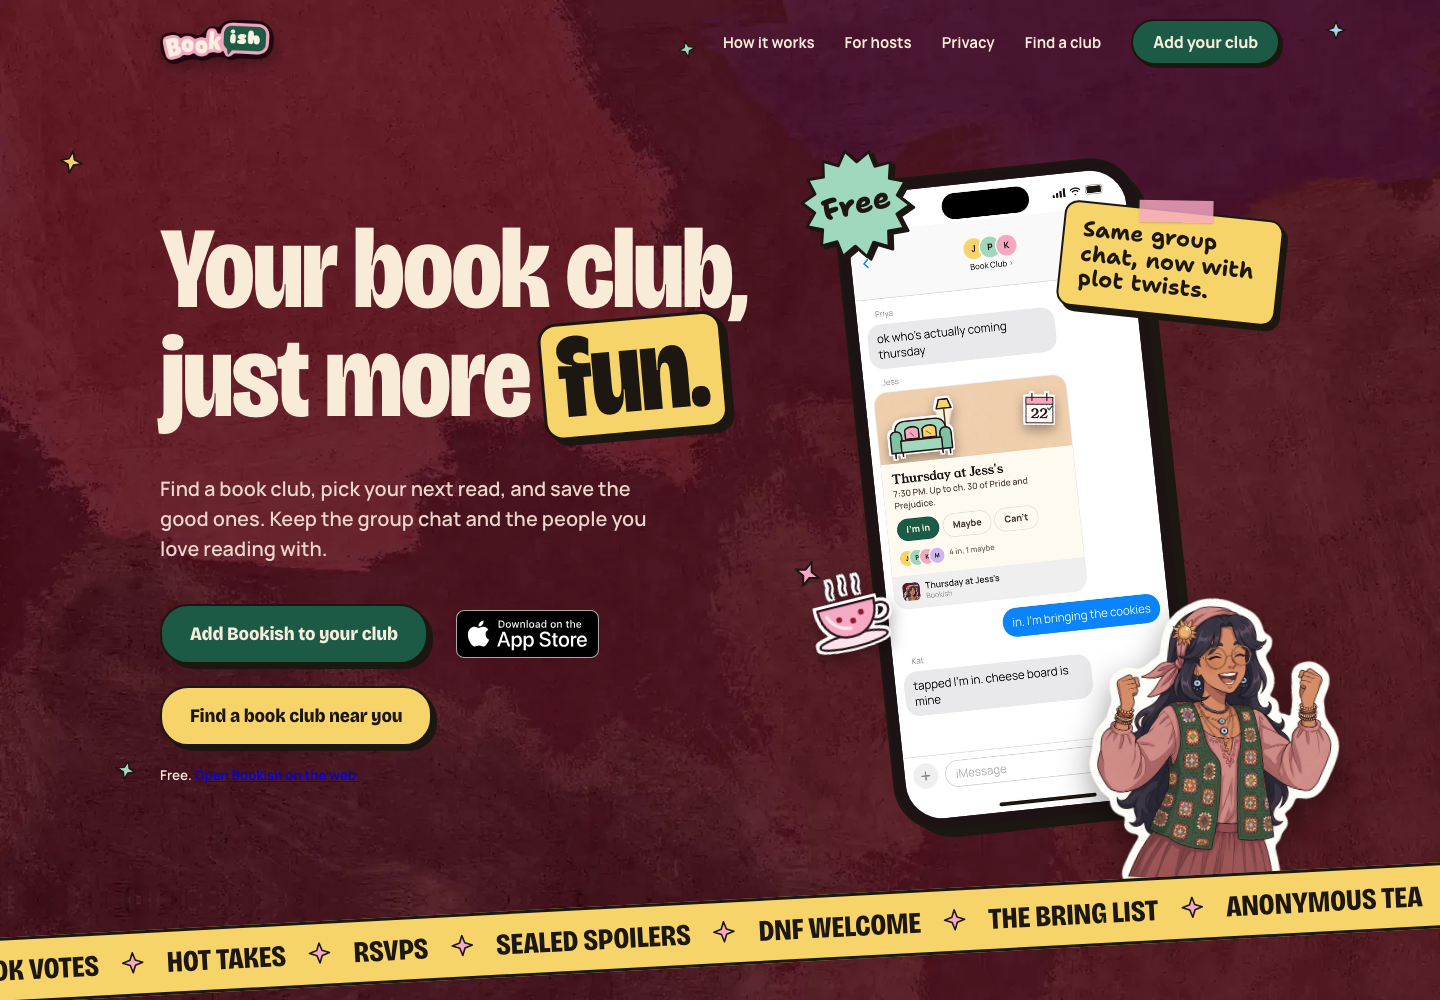
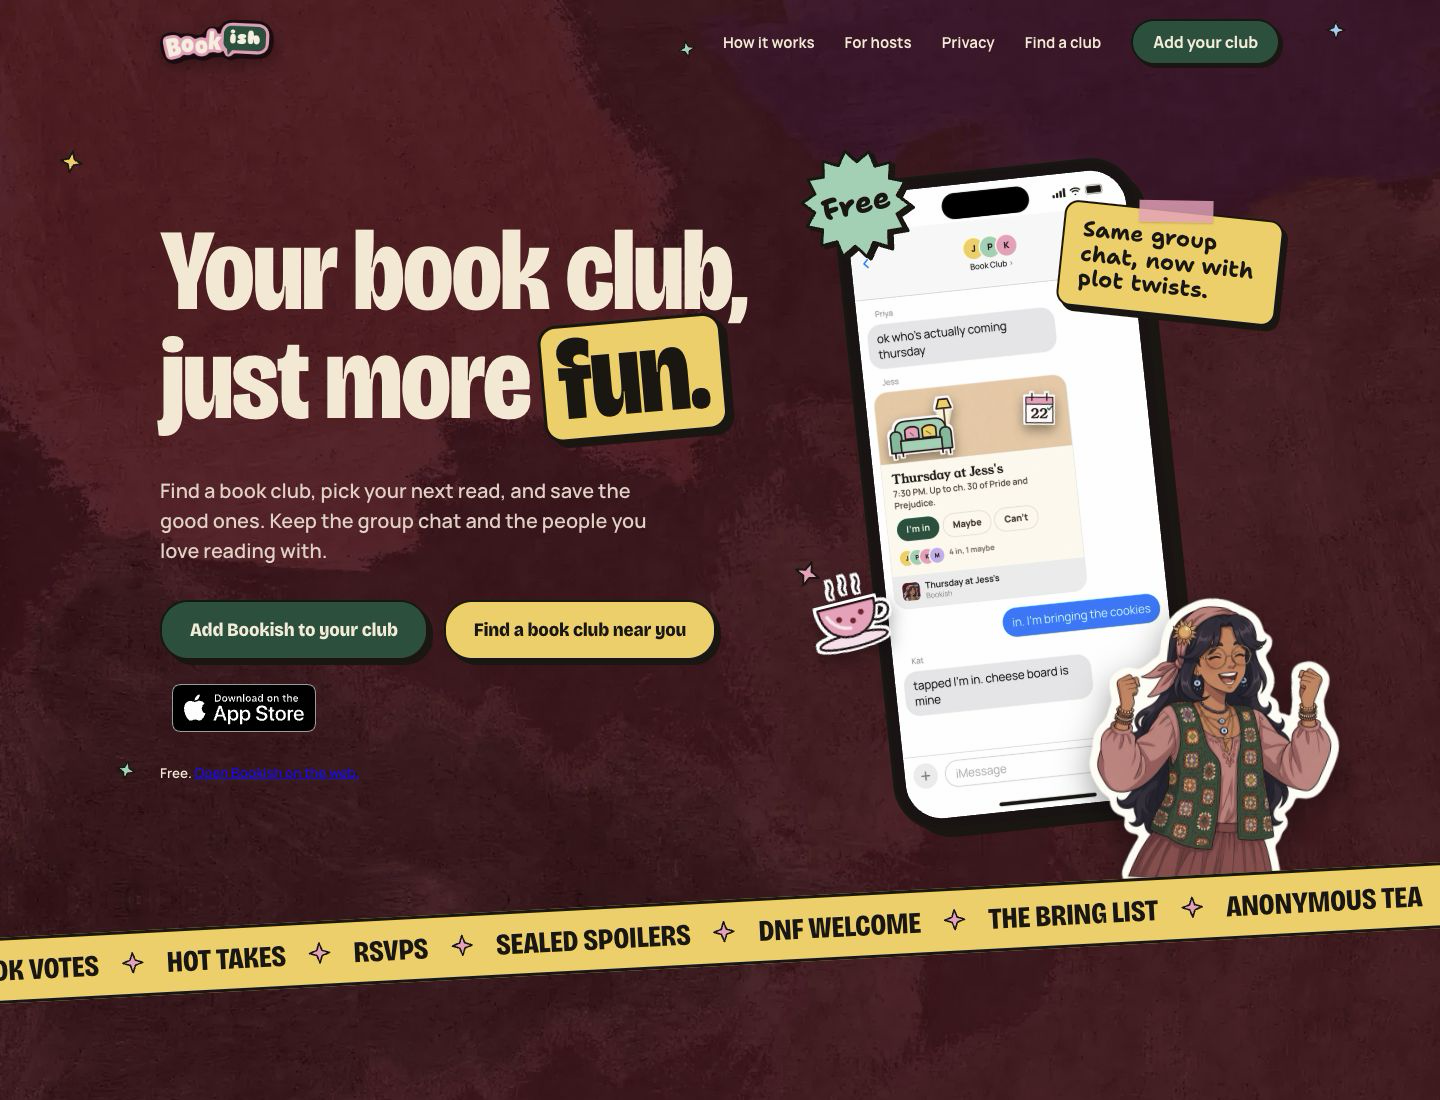
Fix US App Store links and keep hero buttons together
Place the download badge below the hero button pair, use Apple's canonical US storefront URL, and refresh the 390 px and 1440 px render evidence.

Claude-Session: https://claude.ai/code/session_01SUadgkTnheUFXD2cjQiSgD

diff --git a/src/landing.html b/src/landing.html
@@ -7,7 +7,10 @@
    <h1 class="h0">Your book club, just more <span class="pop">fun.</span></h1>
    <div class="lead" style="margin-top:34px;max-width:520px">Find a book club, pick your next read, and save the good ones. Keep the group chat and the people you love reading with.</div>
    <div style="position:relative">
-    <div class="row stack hero-actions" style="gap:16px;margin-top:34px"><a class="btn" href="__BASE__/start/">Add Bookish to your club</a><a class="app-store-badge" href="https://apps.apple.com/app/bookish-book-club-night/id6823470101"><img src="__BASE__/img/download-on-the-app-store.svg" alt="Download on the App Store" width="144" height="48"></a><a class="btn g" href="__BASE__/book-clubs/">Find a book club near you</a></div>
+    <div class="hero-actions" style="margin-top:34px">
+     <div class="row stack" style="gap:16px"><a class="btn" href="__BASE__/start/">Add Bookish to your club</a><a class="btn g" href="__BASE__/book-clubs/">Find a book club near you</a></div>
+     <a class="app-store-badge" href="https://apps.apple.com/us/app/bookish-book-club-night/id6823470101"><img src="__BASE__/img/download-on-the-app-store.svg" alt="Download on the App Store" width="144" height="48"></a>
+    </div>
    </div>
    <div class="sm" style="margin-top:20px">Free. <a href="__BASE__/app/">Open Bookish on the web.</a></div>
   </div>
@@ -179,7 +182,7 @@
 <h2 class="h1 fh" style="color:var(--on);font-size:72px;margin-top:24px">Bring your club.<br>Bring the <span class="pop" style="background:var(--mint)">snacks.</span></h2></div>
 <span style="flex:1"></span><a class="btn b" href="__BASE__/start/">Add Bookish to your club</a></div>
 <div class="row stack foot" style="margin-top:56px;padding-top:24px;border-top:2px dashed var(--lined);gap:26px;flex-wrap:wrap">
-<a class="app-store-badge" href="https://apps.apple.com/app/bookish-book-club-night/id6823470101"><img src="__BASE__/img/download-on-the-app-store.svg" alt="Download on the App Store" width="144" height="48"></a>
+<a class="app-store-badge" href="https://apps.apple.com/us/app/bookish-book-club-night/id6823470101"><img src="__BASE__/img/download-on-the-app-store.svg" alt="Download on the App Store" width="144" height="48"></a>
 <a href="#how-it-works" style="color:var(--on)">How it works</a><a href="__BASE__/privacy/" style="color:var(--on)">Privacy</a><a href="__BASE__/press/" style="color:var(--on)">Press</a><a href="__BASE__/press/#creators" style="color:var(--on)">Creators</a><a href="__BASE__/book-clubs/" style="color:var(--on)">Find a club</a>
 <span style="flex:1"></span><span class="sm" style="color:var(--on2)">Resources: <a href="__BASE__/resources/" style="color:var(--on)">Fictora</a>, from the makers of Bookish</span>
 <span class="sm" style="color:var(--on2)">Free. meetbookish.com</span>

diff --git a/src/landing.css b/src/landing.css
@@ -174,7 +174,9 @@ h1,h2,h3,h4{font-size:inherit;font-weight:inherit}
 /* The suggestion list follows the form controls, so it cannot cover submit. */
 .finder-search .suggest{position:static;flex:1 0 100%;order:4}
 
-.hero-actions{flex-wrap:wrap}
+.hero-actions{display:flex;flex-direction:column;align-items:flex-start;gap:12px}
+.hero-actions>.row{width:100%;flex-wrap:wrap}
+.hero-actions>.app-store-badge{align-self:flex-start}
 /* Apple requires 40 px minimum height and clear space of one-quarter badge height. */
 .app-store-badge{display:inline-flex;flex:none;align-self:center;padding:12px;line-height:0}
 .app-store-badge img{display:block;height:48px;width:auto;max-width:none}
